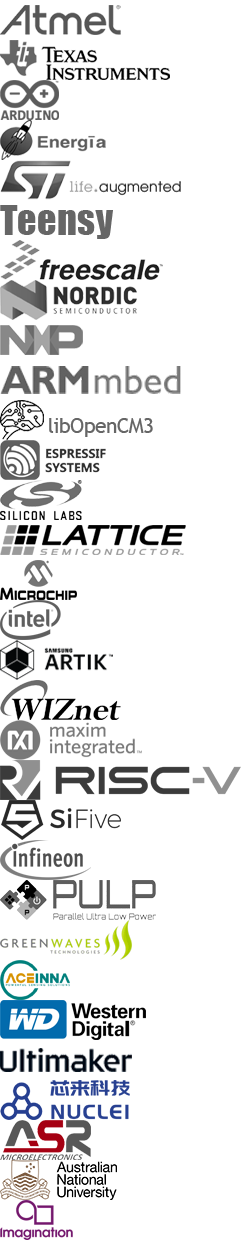
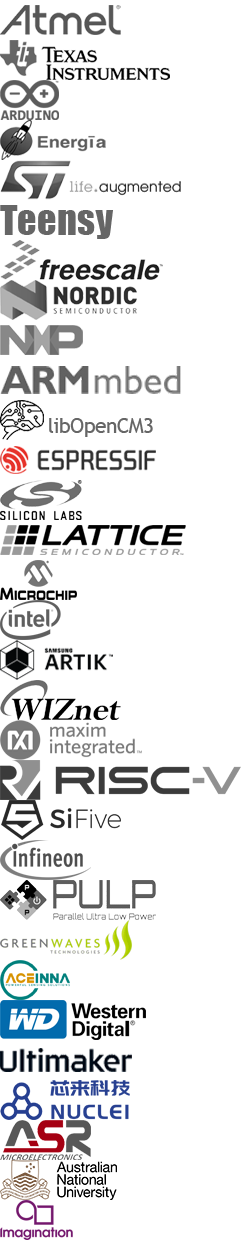
Add Espressif to "Trusted by Global Innovators" list

Changed region(s): [[0.0, 0.3371, 0.616, 0.3984]]

diff --git a/app/views/home.html b/app/views/home.html
@@ -99,6 +99,7 @@
         <ul class="list-inline">
           <li><a href="https://www.aceinna.com/" target="_blank"><div class="brands brand-aceinna"></div></a></li>
           <li><a href="https://www.anu.edu.au/" target="_blank"><div class="brands brand-anu"></div></a></li>
+          <li><a href="https://www.espressif.com/" target="_blank"><div class="brands brand-espresiff"></div></a></li>
           <li><a href="https://www.imgtec.com/" target="_blank"><div class="brands brand-imagination"></div></a></li>
           <li><a href="https://sifive.com/" target="_blank"><div class="brands brand-sifive"></div></a></li>
           <li><a href="https://www.westerndigital.com/" target="_blank"><div class="brands brand-wd"></div></a></li>

diff --git a/app/styles/main.css b/app/styles/main.css
@@ -679,13 +679,13 @@
   text-align: left;
 }
 
-.brands-contaier {
+.brands-container {
   background-color: #fff;
   text-align: center;
   padding-bottom: 60px;
 }
 
-.brands-contaier h2 {
+.brands-container h2 {
   color: #222;
   margin-top: 0;
   margin-bottom: 30px;
@@ -758,7 +758,7 @@
 
 .brand-espresiff {
   background-position: 0 -440px;
-  width: 108px;
+  width: 156px;
 }
 
 .brand-siliconlabs {

diff --git a/app/views/brands.html b/app/views/brands.html
@@ -1,4 +1,4 @@
-<div class="brands-contaier">
+<div class="brands-container">
   <div class="container">
     <h2>Professional development environment for</h2>
     <a href="/boards">
